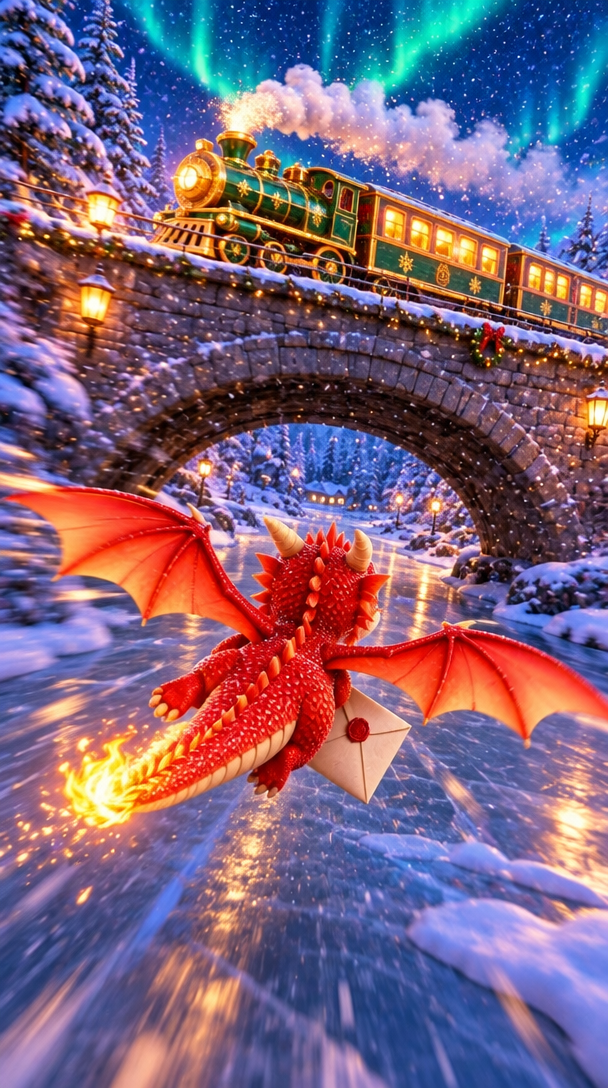
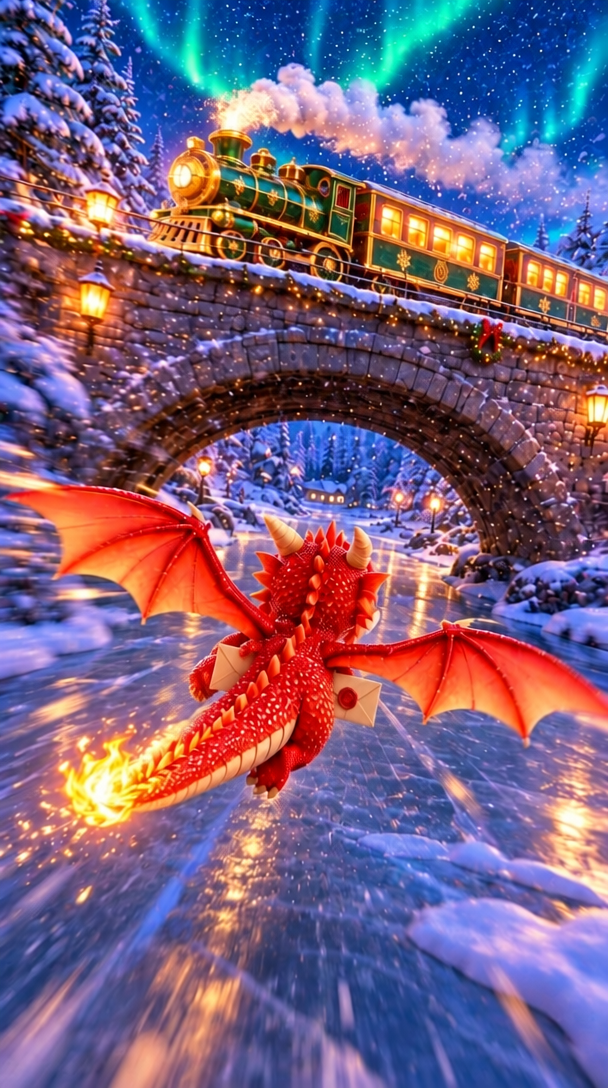
Полёт Огонька: лист размеров, кадры с конвертом одного размера
Claude-Session: https://claude.ai/code/session_01TXwNN2je3RbbmpXYz6m2NX

diff --git a/polet/pravka_konvert.py b/polet/pravka_konvert.py
@@ -1,0 +1,21 @@
+import os, sys, urllib.request, fal_client, concurrent.futures as cf
+os.environ.setdefault("FAL_KEY","proxy-injected")
+RAZ=("STRICT SIZE RULE (same in every frame): there is exactly ONE closed cream envelope with a red wax seal, landscape rectangle, "
+     "exactly as wide as the dragon's torso, as on the size reference sheet (image 2). Not bigger, not smaller, never two envelopes, never a sheet of paper.")
+J={
+"1":"Edit image 1: keep EVERYTHING the same (composition, camera, forest, path, lanterns, the dragon's pose, wings, light, motion blur), ONLY fix the envelope: the dragon holds exactly ONE wide envelope in both front paws against his chest; because we see him from behind, the left and right ends of the SAME envelope clearly stick out on BOTH sides of his chest, below his shoulders, exactly like in image 2 (dragon seen from behind with the envelope). The envelope is as wide as his torso plus a little on each side.",
+"2":"Edit image 1: keep EVERYTHING the same (composition, camera, river, stone bridge, the steam train, aurora, the dragon's pose and wings, light, motion blur), ONLY fix the envelope: the dragon holds exactly ONE wide envelope in both front paws against his chest; because we see him from behind, the left and right ends of the SAME envelope clearly stick out on BOTH sides of his chest, below his shoulders, exactly like in image 2 (dragon seen from behind with the envelope). The envelope is as wide as his torso plus a little on each side.",
+"3":"Edit image 1: keep EVERYTHING the same (composition, camera, the festive city, fireworks, the dragon's pose and wings, light, motion blur), ONLY make the envelope in his paws BIGGER: exactly as wide as his torso, like in image 2. The dragon holds exactly ONE wide envelope in both front paws against his chest; because we see him from behind, the left and right ends of the SAME envelope clearly stick out on BOTH sides of his chest, below his shoulders, exactly like in image 2 (dragon seen from behind with the envelope). The envelope is as wide as his torso plus a little on each side.",
+"4":"Edit image 1: keep EVERYTHING the same (composition, camera, roofs, chimneys, the open lit window, the dragon's pose and wings, light, motion blur), ONLY fix the envelope: the dragon holds exactly ONE wide envelope in both front paws against his chest; because we see him from behind, the left and right ends of the SAME envelope clearly stick out on BOTH sides of his chest, below his shoulders, exactly like in image 2 (dragon seen from behind with the envelope). The envelope is as wide as his torso plus a little on each side.",
+"5":"Edit image 1: keep EVERYTHING the same (the dragon sitting on the pillow with a claw at his lips, the bedroom, the sleeping child with hidden face, toys, light), ONLY fix the envelope lying on the pillow in front of the dragon: exactly ONE envelope, as on image 2 lying on the ground.",
+}
+SRC={"1":"kadry/1.png","2":"kadry/2.png","3":"kadry/3.png","4":"kadry/4.png","5":"kadry/5.png"}
+REF={"1":"razmery_szadi.png","2":"razmery_szadi.png","4":"razmery_szadi.png","3":"razmery_speredi.png"}
+def go(k):
+    r=fal_client.subscribe("openai/gpt-image-2.6/flare/edit",arguments={"prompt":J[k]+" "+RAZ+" Image 2 is the size reference sheet. No text.",
+       "image_urls":[fal_client.upload_file(SRC[k]),fal_client.upload_file(REF[k])],"image_size":"portrait_16_9","quality":"medium","num_images":1,"output_format":"png"})
+    urllib.request.urlretrieve(r["images"][0]["url"],f"kadry/{k}.png"); return k
+with cf.ThreadPoolExecutor(5) as ex:
+    for f in cf.as_completed([ex.submit(go,k) for k in (sys.argv[1:] or J)]):
+        try: print(f.result(),"ok",flush=True)
+        except Exception as e: print("ОШИБКА",e,flush=True)

diff --git a/polet/rot.py b/polet/rot.py
@@ -1,0 +1,15 @@
+import os, sys, urllib.request, fal_client, concurrent.futures as cf
+os.environ.setdefault("FAL_KEY","proxy-injected")
+RAZ=("The envelope: exactly ONE closed cream envelope with a red wax seal, a landscape rectangle about 1.5 times as wide as the dragon's head "
+     "(the same size as on the reference sheet, image 2). Not bigger, not smaller, never two envelopes.")
+def go(k):
+    p=("Edit image 1: keep the composition, camera angle, background, lighting, motion blur and the dragon's body and wings the same, "
+       "but now the dragon carries the envelope IN HIS MOUTH, gripped in his teeth, held horizontally like a delivery bird; because we see him from behind, "
+       "the left and right ends of the envelope clearly stick out on BOTH sides of his head. His front paws are empty and tucked under his chest. "+RAZ+" No text.")
+    r=fal_client.subscribe("openai/gpt-image-2.6/flare/edit",arguments={"prompt":p,
+       "image_urls":[fal_client.upload_file(f"kadry/v1/{k}.png"),fal_client.upload_file("razmery.png")],"image_size":"portrait_16_9","quality":"medium","num_images":1,"output_format":"png"})
+    urllib.request.urlretrieve(r["images"][0]["url"],f"kadry/rot_{k}.png"); return k
+with cf.ThreadPoolExecutor(4) as ex:
+    for f in cf.as_completed([ex.submit(go,k) for k in sys.argv[1:]]):
+        try: print(f.result(),"ok",flush=True)
+        except Exception as e: print("ОШИБКА",e,flush=True)

diff --git a/polet/razmery.py b/polet/razmery.py
@@ -1,0 +1,11 @@
+import os, urllib.request, fal_client
+os.environ.setdefault("FAL_KEY","proxy-injected")
+DR="/home/user/5-/masterskaya-skazok/shablony/drakonchik/personazhi/drakonchik_list.png"
+p=("Size reference sheet in the same 3D animated cartoon style, plain light background, same scale for everything, no text: "
+   "(1) the little red baby dragon from image 1, front view, holding ONE closed cream envelope with a red wax seal in both front paws against his chest; "
+   "the envelope is exactly as wide as the dragon's torso (about the width of his belly), rectangular, landscape orientation; "
+   "(2) the same dragon flying, seen from BEHIND, wings spread, the same single envelope held under his chest, only its lower edge and corners visible below his belly; "
+   "(3) the same envelope lying alone on the ground next to the dragon's foot, same size.")
+r=fal_client.subscribe("openai/gpt-image-2.6/flare/edit",arguments={"prompt":p,"image_urls":[fal_client.upload_file(DR)],
+   "image_size":"landscape_4_3","quality":"medium","num_images":1,"output_format":"png"})
+urllib.request.urlretrieve(r["images"][0]["url"],"razmery.png"); print("ok")
